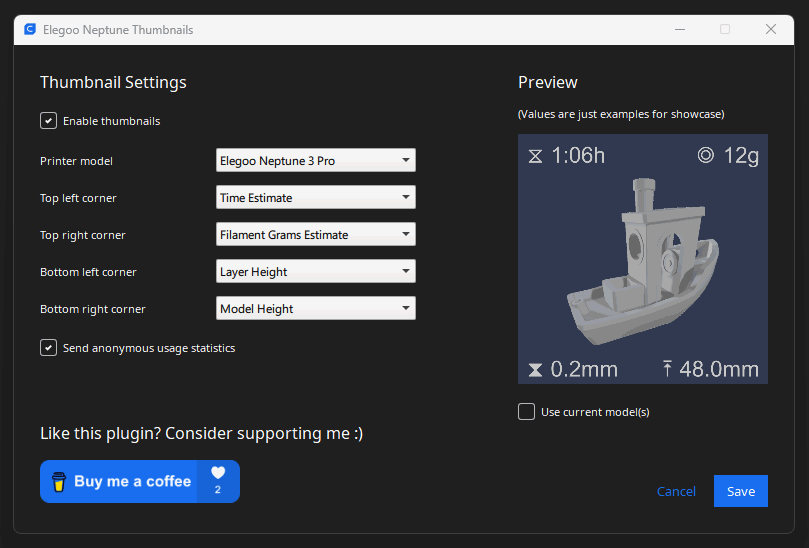
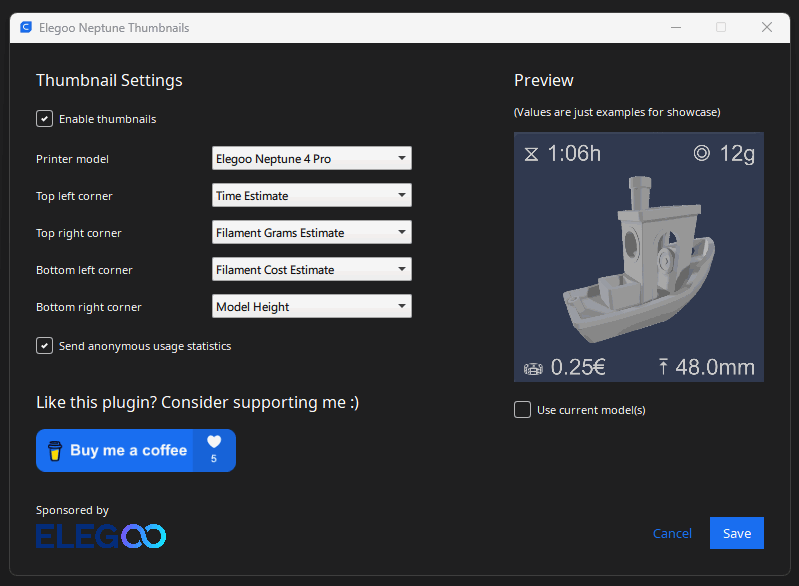
Updated readme images

diff --git a/README.md b/README.md
@@ -13,7 +13,7 @@ If you like this plugin, consider supporting me :)
 
 ## General Info
 
-Cura 5.X plugin for adding gcode thumbnail images for Elegoo Neptune printers (tested for Elegoo Neptune 3 Pro). I have
+Cura 5.X plugin for adding gcode thumbnail images for Elegoo Neptune printers (tested for Elegoo Neptune 4 Pro). I have
 not tested every printer, but it seems like based on feedback at least the following models are supported (for other
 models, see [FAQ](#faq)):
 
@@ -36,7 +36,8 @@ Additional features:
 > **Note:** If you have some idea on how to improve the plugin or found a bug, feel free to create
 > a [GitHub issue](https://github.com/Molodos/ElegooNeptuneThumbnails/issues/new/choose) for that
 
-<img src="readme_images/neptune_3_pro_view.jpg" width="300">
+<img src="readme_images/neptune_4_preview.jpg" width="300">
+<img src="readme_images/neptune_4_view.jpg" width="300">
 
 ## Installation
 
